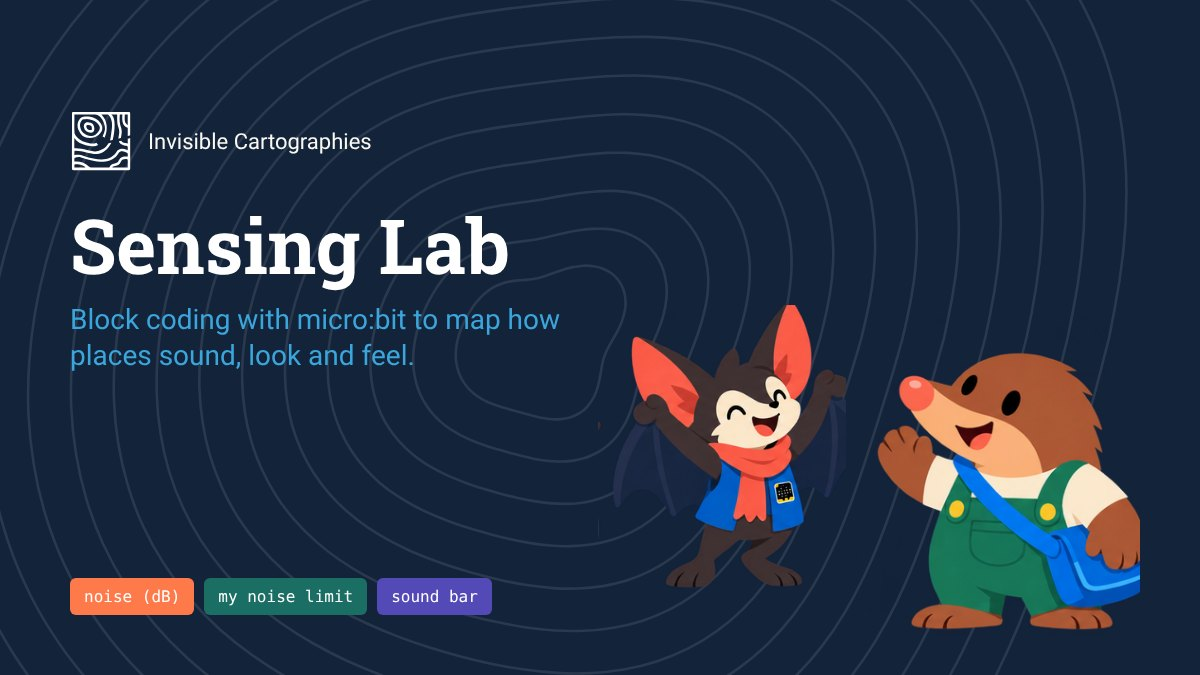
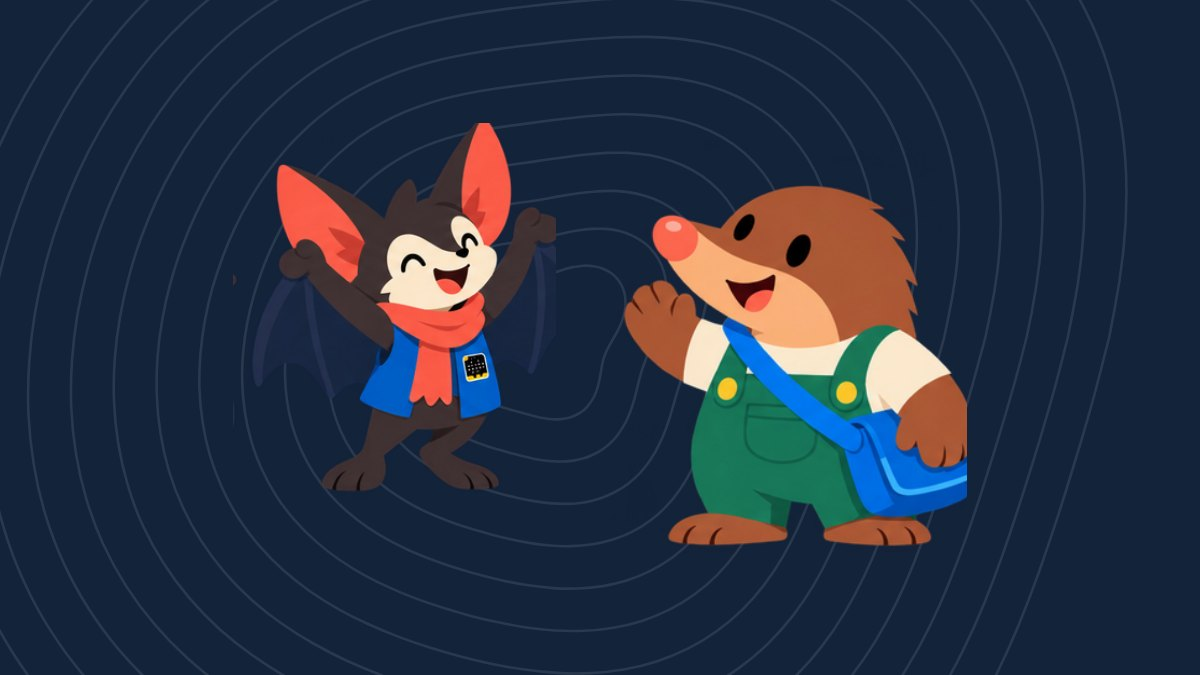
feat(ic): 0.2.1 — botão «← Site» para voltar ao site do IC; capa do recurso só com as mascotes
Claude-Session: https://claude.ai/code/session_01V9YUxEYZGtevVTvQkC56HS

Changed region(s): [[0.5242, 0.2489, 0.9558, 0.9333], [0.0617, 0.1556, 0.4625, 0.7467], [0.0308, 0.84, 0.4317, 0.9333]]

diff --git a/ic/i18n/educadores.js b/ic/i18n/educadores.js
@@ -85,9 +85,9 @@
       '<ul><li><strong>Portas do kit</strong> (como nos guias): ruído P1, luz P2, PIR P13, OLED e BME280 no I2C; servo numa porta livre (P8 nas missões). A porta no bloco tem de ser a mesma da placa.</li><li><strong>Enviar programas:</strong> «Enviar para o micro:bit» cria um ficheiro .hex feito aqui (MicroPython, micro:bit V2). No Chrome/Edge grava diretamente na pasta MICROBIT; nos outros browsers, descarregar e arrastar.</li><li><strong>Continuar noutro dia:</strong> o .hex guarda os blocos lá dentro. No modo livre, «Abrir projeto» volta a abri-lo em qualquer computador. As crianças devem guardar os .hex (pen, pasta da turma).</li><li><strong>Dados:</strong> «registar dados» guarda linhas no micro:bit; abram o <code>MY_DATA.HTM</code> na pasta MICROBIT para ver e descarregar a tabela.</li><li><strong>Letras nos ecrãs:</strong> o micro:bit e o OLED só têm letras latinas básicas. Os acentos convertem-se sozinhos (á → a, ç → c).</li><li><strong>Sem internet?</strong> Abram a plataforma uma vez com rede no Chrome/Edge e escolham «Instalar» — depois funciona sem rede. Ou copiem a pasta e façam duplo clique em «Open IC Sensing Lab.bat».</li><li><strong>Passar para o MakeCode:</strong> os blocos têm o aspeto e os nomes do MakeCode; lá é preciso juntar as extensões ELECFREAKS IoT kit e <code>github.com/Buinho-Creative-Hub/IC-Oled</code>.</li></ul>'),
 
     edu_h_estado: T('Status of this version', 'Статус ове верзије', 'Estado de esta versión', 'Estado desta versão'),
-    edu_estado: T('<p>Version 0.2, October 2026. The Serbian and Spanish texts are an automatic translation and will be reviewed by the partners; the guide characters Lio and Mo were drawn for the project. Please send corrections and ideas to the Buinho team — especially from children and educators who used it.</p><p>Part of Invisible Cartographies (Creative Europe, WP3 — Art and Citizen Sensing: citizen sensing toolkit for educators). Licence CC BY-NC-SA 4.0.</p>',
-      '<p>Верзија 0.2, октобар 2026. Српски и шпански текстови су аутоматски превод и партнери ће их прегледати; ликови-водичи Лио и Мо нацртани су за пројекат. Молимо пошаљите исправке и идеје тиму Buinho — посебно од деце и едукатора који су је користили.</p><p>Део пројекта Невидљиве картографије (Креативна Европа, РП3 — Уметност и грађанско мерење: алати за едукаторе). Лиценца CC BY-NC-SA 4.0.</p>',
-      '<p>Versión 0.2, octubre de 2026. Los textos en serbio y español son una traducción automática que revisarán los socios; los personajes guía Lio y Mo se dibujaron para el proyecto. Enviad correcciones e ideas al equipo de Buinho, sobre todo de niños y educadores que la hayan usado.</p><p>Parte de Cartografías Invisibles (Europa Creativa, WP3 — Arte y ciencia ciudadana: kit de herramientas para educadores). Licencia CC BY-NC-SA 4.0.</p>',
-      '<p>Versão 0.2, outubro de 2026. Os textos em sérvio e espanhol são tradução automática e vão ser revistos pelos parceiros; as personagens-guia Lio e Mo foram desenhadas para o projeto. Enviem correções e ideias à equipa do Buinho — sobretudo de crianças e educadores que a usaram.</p><p>Parte das Cartografias Invisíveis (Europa Criativa, WP3 — Arte e ciência cidadã: kit de ferramentas para educadores). Licença CC BY-NC-SA 4.0.</p>'),
+    edu_estado: T('<p>Version 0.2.1, October 2026. The Serbian and Spanish texts are an automatic translation and will be reviewed by the partners; the guide characters Lio and Mo were drawn for the project. Please send corrections and ideas to the Buinho team — especially from children and educators who used it.</p><p>Part of Invisible Cartographies (Creative Europe, WP3 — Art and Citizen Sensing: citizen sensing toolkit for educators). Licence CC BY-NC-SA 4.0.</p>',
+      '<p>Верзија 0.2.1, октобар 2026. Српски и шпански текстови су аутоматски превод и партнери ће их прегледати; ликови-водичи Лио и Мо нацртани су за пројекат. Молимо пошаљите исправке и идеје тиму Buinho — посебно од деце и едукатора који су је користили.</p><p>Део пројекта Невидљиве картографије (Креативна Европа, РП3 — Уметност и грађанско мерење: алати за едукаторе). Лиценца CC BY-NC-SA 4.0.</p>',
+      '<p>Versión 0.2.1, octubre de 2026. Los textos en serbio y español son una traducción automática que revisarán los socios; los personajes guía Lio y Mo se dibujaron para el proyecto. Enviad correcciones e ideas al equipo de Buinho, sobre todo de niños y educadores que la hayan usado.</p><p>Parte de Cartografías Invisibles (Europa Creativa, WP3 — Arte y ciencia ciudadana: kit de herramientas para educadores). Licencia CC BY-NC-SA 4.0.</p>',
+      '<p>Versão 0.2.1, outubro de 2026. Os textos em sérvio e espanhol são tradução automática e vão ser revistos pelos parceiros; as personagens-guia Lio e Mo foram desenhadas para o projeto. Enviem correções e ideias à equipa do Buinho — sobretudo de crianças e educadores que a usaram.</p><p>Parte das Cartografias Invisíveis (Europa Criativa, WP3 — Arte e ciência cidadã: kit de ferramentas para educadores). Licença CC BY-NC-SA 4.0.</p>'),
   });
 })();

diff --git a/ic/i18n/ui.js b/ic/i18n/ui.js
@@ -13,6 +13,8 @@
     lab_nome: T('Sensing Lab', 'Сензорна лабораторија', 'Laboratorio sensorial', 'Laboratório sensorial'),
     lab_titulo: T('Invisible Cartographies · Sensing Lab', 'Невидљиве картографије · Сензорна лабораторија', 'Cartografías Invisibles · Laboratorio sensorial', 'Cartografias Invisíveis · Laboratório sensorial'),
     inicio: T('Home', 'Почетна', 'Inicio', 'Início'),
+    site_ic: T('← Website', '← Сајт', '← Web', '← Site'),
+    site_ic_titulo: T('Back to the Invisible Cartographies website', 'Назад на сајт Невидљивих картографија', 'Volver a la web de Cartografías Invisibles', 'Voltar ao site do Cartografias Invisíveis'),
     para_educadores: T('For educators', 'За едукаторе', 'Para educadores', 'Para educadores'),
     intro_titulo: T('Map what usually goes unnoticed.', 'Мапирај оно што обично остаје непримећено.', 'Mapea lo que suele pasar desapercibido.', 'Mapeia o que costuma passar despercebido.'),
     intro_texto: T('Program a micro:bit to listen, see and feel a place — and discover how the same room can feel calm to one person and too much for another.',

diff --git a/ic/js/i18n.js b/ic/js/i18n.js
@@ -62,6 +62,9 @@
     raiz.querySelectorAll('[data-i18n-html]').forEach(e => { e.innerHTML = F.s(e.dataset.i18nHtml); });
     raiz.querySelectorAll('[data-i18n-title]').forEach(e => { e.title = F.s(e.dataset.i18nTitle); });
     raiz.querySelectorAll('[data-i18n-aria]').forEach(e => { e.setAttribute('aria-label', F.s(e.dataset.i18nAria)); });
+    // voltar ao site do projeto, na mesma língua (no site do IC fica no mesmo domínio; nos testes leva ao site a sério)
+    const noSite = /invisiblecartographies\.eu$/.test(location.hostname);
+    raiz.querySelectorAll('[data-site-ic]').forEach(e => { e.href = (noSite ? '/' : 'https://invisiblecartographies.eu/') + (F.LANG === 'en' ? '' : F.LANG + '/'); });
   };
   // seletor de língua: <div data-linguas></div>
   F.desenharLinguas = function () {

diff --git a/ic/educadores.html b/ic/educadores.html
@@ -44,6 +44,7 @@
     <span class="ic-marca-texto"><span class="ic-nome" data-i18n="ic_nome">Invisible Cartographies</span><span class="ic-lab" data-i18n="lab_nome">Sensing Lab</span></span>
   </a>
   <span class="espaco"></span>
+  <a class="btn-educadores btn-site" data-site-ic href="https://invisiblecartographies.eu/" data-i18n="site_ic" data-i18n-title="site_ic_titulo">← Website</a>
   <div data-linguas></div>
   <div data-a11y></div>
 </header>

diff --git a/ic/sw.js b/ic/sw.js
@@ -1,7 +1,7 @@
 /* IC Sensing Lab — service worker (gerado por ferramentas/gerar-sw.py; não editar à mão).
  * Depois de abrir a plataforma uma vez com internet, fica todo guardado no browser e funciona sem rede.
  * Com internet vai sempre buscar a versão mais recente (rede primeiro); sem internet usa a cópia guardada. */
-const VERSAO = 'iclab-94a7ba9391';
+const VERSAO = 'iclab-c0eeffa2ee';
 const FICHEIROS = [
  "./",
  "css/faisca.css",

diff --git a/ic/index.html b/ic/index.html
@@ -26,6 +26,7 @@
     </a>
     <span class="espaco"></span>
     <span class="turma-barra" data-turma="inicio"></span>
+    <a class="btn-educadores btn-site" data-site-ic href="https://invisiblecartographies.eu/" data-i18n="site_ic" data-i18n-title="site_ic_titulo">← Website</a>
     <a class="btn-educadores" href="educadores.html" data-i18n="para_educadores">For educators</a>
     <div data-linguas></div>
     <div data-a11y></div>

diff --git a/ic/professor.html b/ic/professor.html
@@ -24,6 +24,7 @@
   </a>
   <span class="espaco"></span>
   <span class="prof-quem" id="quem"></span>
+  <a class="btn-educadores btn-site" data-site-ic href="https://invisiblecartographies.eu/" data-i18n="site_ic" data-i18n-title="site_ic_titulo">← Website</a>
   <div data-linguas></div>
   <div data-a11y></div>
 </header>
